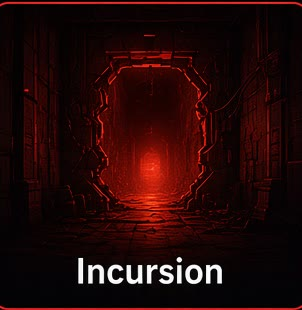
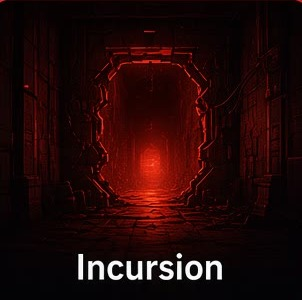
Neutralise the Builds category list
Crop the coloured lines off the six category tiles, use one grey card with a role icon, and put the icon back button in the header when a category is open.

diff --git a/js/builds.js b/js/builds.js
@@ -15,6 +15,21 @@
 
   var STRIKER = "assets/icons/gearsets/strikers-battlegear.png";
 
+  var ROLE_ICONS = {
+    dps: '<svg viewBox="0 0 24 24" aria-hidden="true"><circle cx="12" cy="12" r="3.1" fill="none" stroke="#fff" stroke-width="1.8"/><path d="M12 3.4v3.1M12 17.5v3.1M3.4 12h3.1M17.5 12h3.1" fill="none" stroke="#fff" stroke-width="1.8" stroke-linecap="round"/></svg>',
+    cc: '<svg viewBox="0 0 24 24" aria-hidden="true"><path d="M12 2.8 13.7 8l5.3.5-4.1 3.4 1.4 5.1L12 14.2 7.7 17l1.4-5.1L5 8.5 10.3 8Z" fill="#fff"/></svg>',
+    heal: '<svg viewBox="0 0 24 24" aria-hidden="true"><path d="M10.1 4.2h3.8V10h5.9v3.8H13.9v5.8h-3.8v-5.8H4.2V10h5.9Z" fill="#fff"/></svg>',
+    tank: '<svg viewBox="0 0 24 24" aria-hidden="true"><path d="M12 3.1 19.2 6v6.1c0 4.3-2.9 6.8-7.2 8.4-4.3-1.6-7.2-4.1-7.2-8.4V6Z" fill="none" stroke="#fff" stroke-width="1.8" stroke-linejoin="round"/></svg>'
+  };
+
+  function roleKind(role) {
+    var text = String(role || "").toLowerCase();
+    if (text.indexOf("heal") !== -1) return "heal";
+    if (text.indexOf("tank") !== -1) return "tank";
+    if (text.indexOf("crowd") !== -1 || text.indexOf("cc") !== -1) return "cc";
+    return "dps";
+  }
+
   var CATS = [
     { id: "solo", label: "Solo", art: "assets/tiles/builds-solo.jpg" },
     { id: "team", label: "Team", art: "assets/tiles/builds-team.jpg" },
@@ -100,12 +115,36 @@
     );
   }
 
+  function setListBack(on) {
+    var top = document.querySelector(".topbar");
+    var pill = document.querySelector(".hub-pill");
+    var back = document.getElementById("builds-back");
+    if (pill) pill.hidden = !!on;
+    if (!on) {
+      if (back) back.remove();
+      return;
+    }
+    if (back || !top) return;
+    back = document.createElement("button");
+    back.type = "button";
+    back.id = "builds-back";
+    back.className = "upd-header-back";
+    back.setAttribute("aria-label", "Back to Builds");
+    back.innerHTML = '<svg viewBox="0 0 24 24" aria-hidden="true"><path d="M15 5 8 12l7 7" fill="none" stroke="currentColor" stroke-width="1.6" stroke-linecap="round" stroke-linejoin="round"/></svg>';
+    back.addEventListener("click", function () {
+      history.pushState({}, "", "builds.html");
+      showGrid();
+    });
+    top.appendChild(back);
+  }
+
   function showGrid() {
     document.body.classList.add("is-grid");
     document.body.classList.remove("is-list");
     stage.hidden = false;
     listView.hidden = true;
     detailView.hidden = true;
+    setListBack(false);
     window.scrollTo(0, 0);
   }
 
@@ -117,18 +156,17 @@
     stage.hidden = true;
     detailView.hidden = true;
     listView.hidden = false;
+    setListBack(true);
     if (listTitle) listTitle.textContent = cat.label;
     var rows = LISTS[catId] || [];
     listRows.innerHTML = rows
       .map(function (row) {
-        var icon = row.icon
-          ? '<img src="' + row.icon + '" alt="" class="' + (row.icon.indexOf("strikers") !== -1 ? "is-banner" : "") + '">'
-          : '<span class="role-mark tone-' + row.tone + '" aria-hidden="true"></span>';
+        var kind = roleKind(row.role);
         return (
-          '<button type="button" class="build-row tone-' + row.tone + '" data-build="' + row.id + '">' +
-          '<span class="build-logo">' + icon + "</span>" +
-          "<span><strong>" + STF.esc(row.name) + "</strong>" +
-          '<em class="tone-' + row.tone + '">' + STF.esc(row.role) + "</em></span>" +
+          '<button type="button" class="build-row" data-build="' + row.id + '">' +
+          '<span class="build-copy"><strong>' + STF.esc(row.name) + "</strong>" +
+          "<em>" + STF.esc(row.role) + "</em></span>" +
+          '<span class="role-ico ' + kind + '" aria-hidden="true">' + ROLE_ICONS[kind] + "</span>" +
           "</button>"
         );
       })
@@ -146,6 +184,7 @@
     stage.hidden = true;
     listView.hidden = true;
     detailView.hidden = false;
+    setListBack(false);
     detailBody.innerHTML = row.detail === "hollow-man" ? hollowDetail(row) : placeholderDetail(row);
     if (detailBack) detailBack.textContent = "← " + cat.label;
     window.scrollTo(0, 0);

diff --git a/styles.css b/styles.css
@@ -932,28 +932,34 @@ a.cat-tile, a.cat-tile:hover { text-decoration: none; color: inherit; }
 .build-rows { display: grid; gap: 10px; }
 .build-row {
   display: grid;
-  grid-template-columns: 42px 1fr;
+  grid-template-columns: minmax(0, 1fr) 46px;
   gap: 12px;
   align-items: center;
   width: 100%;
   text-align: left;
   padding: 12px 14px;
   border-radius: 14px;
-  background: rgba(255,255,255,.03);
+  background: rgba(255,255,255,.035);
   border: 1px solid rgba(255,255,255,.1);
   color: inherit;
   font: inherit;
   cursor: pointer;
 }
-.build-row.tone-dps { border-color: rgba(196, 58, 58, .45); }
-.build-row.tone-tank { border-color: rgba(61, 108, 181, .5); }
-.build-row.tone-skill { border-color: rgba(201, 162, 55, .5); }
-.build-row.tone-heal { border-color: rgba(46, 140, 90, .5); }
 .build-row strong { display: block; font-size: 1.02rem; }
 .build-row em {
   display: block; margin-top: 2px; font-style: normal;
-  font-size: .78rem; font-weight: 700; letter-spacing: .02em;
+  font-size: .78rem; font-weight: 600; letter-spacing: .02em;
+  color: #8a9099;
 }
+.role-ico {
+  width: 46px; height: 46px; border-radius: 12px;
+  display: grid; place-items: center; justify-self: end;
+}
+.role-ico svg { width: 24px; height: 24px; display: block; }
+.role-ico.dps { background: #dc2626; }
+.role-ico.cc { background: #eab308; }
+.role-ico.heal { background: #16a34a; }
+.role-ico.tank { background: #2563eb; }
 .build-row em.tone-dps, .build-role.tone-dps { color: #e07070; }
 .build-row em.tone-tank, .build-role.tone-tank { color: #8eb4e8; }
 .build-row em.tone-skill, .build-role.tone-skill { color: #e2c56a; }

diff --git a/builds.html b/builds.html
@@ -14,7 +14,7 @@
   <main id="cat-stage" class="cat-stage" aria-label="Build categories"></main>
 
   <div id="build-list" class="wrap build-list" hidden>
-    <button type="button" class="back-link" id="list-back">← Categories</button>
+    <button type="button" class="back-link" id="list-back" hidden>← Categories</button>
     <h1 id="list-title">Builds</h1>
     <div id="list-rows" class="build-rows"></div>
   </div>
